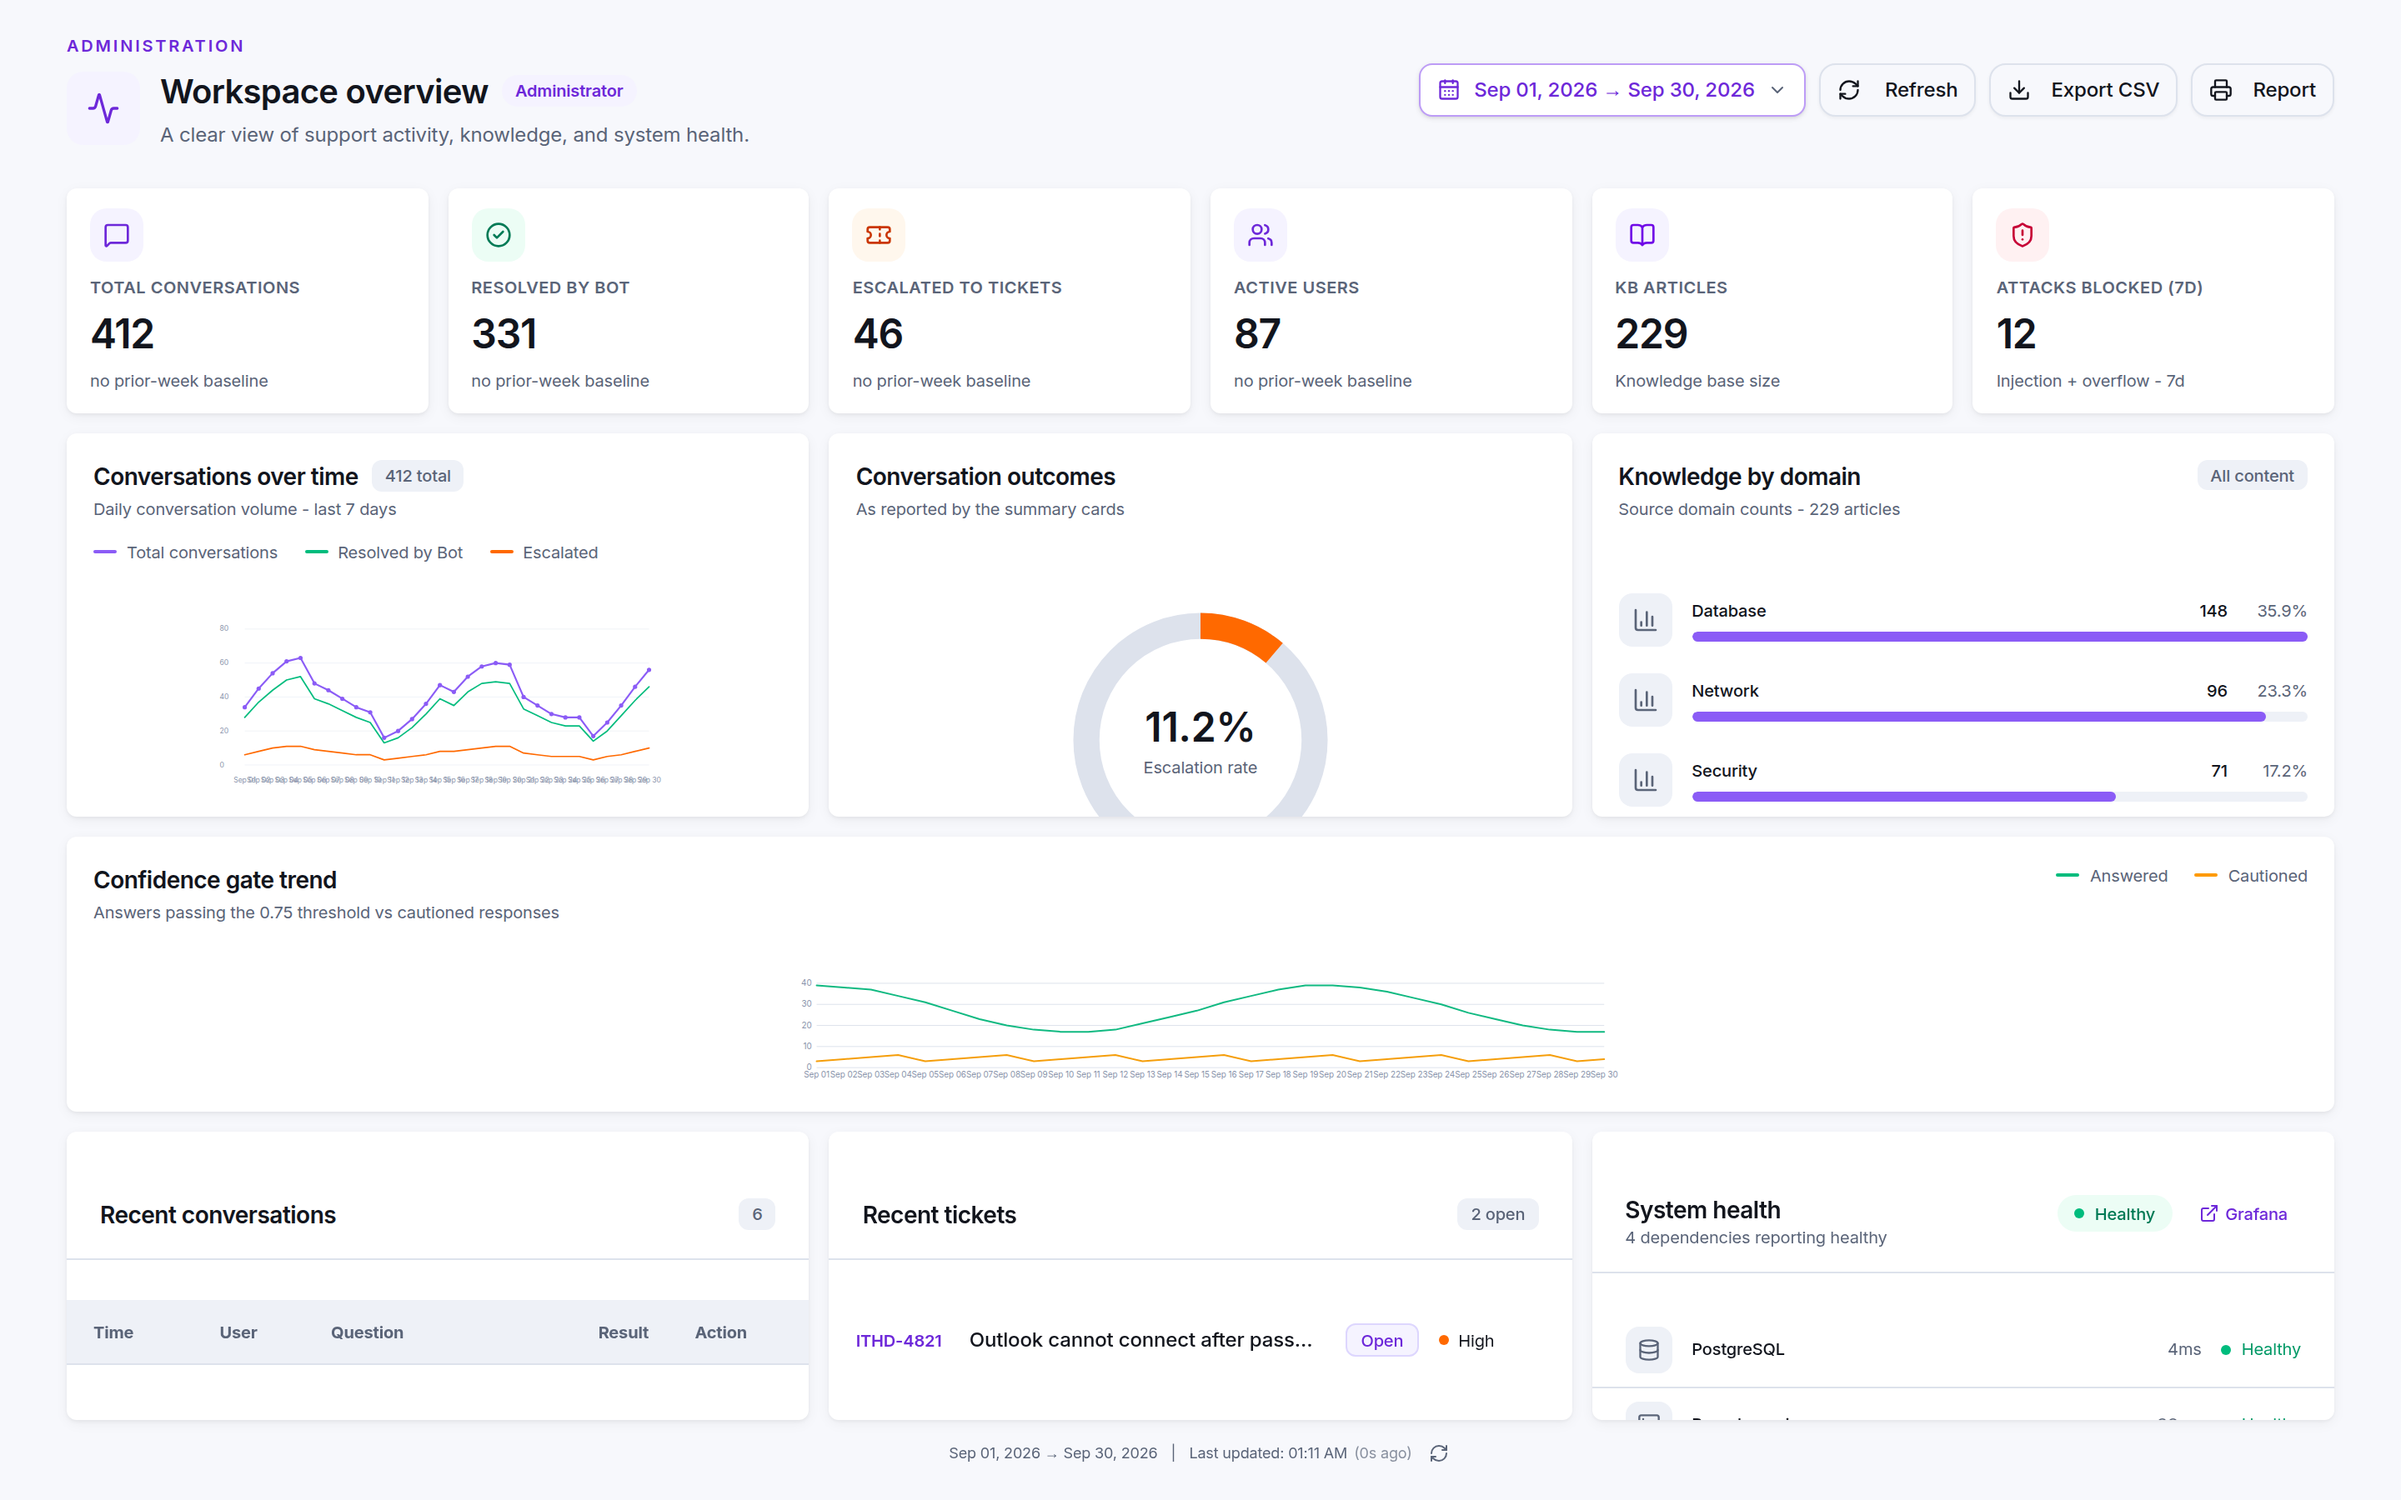
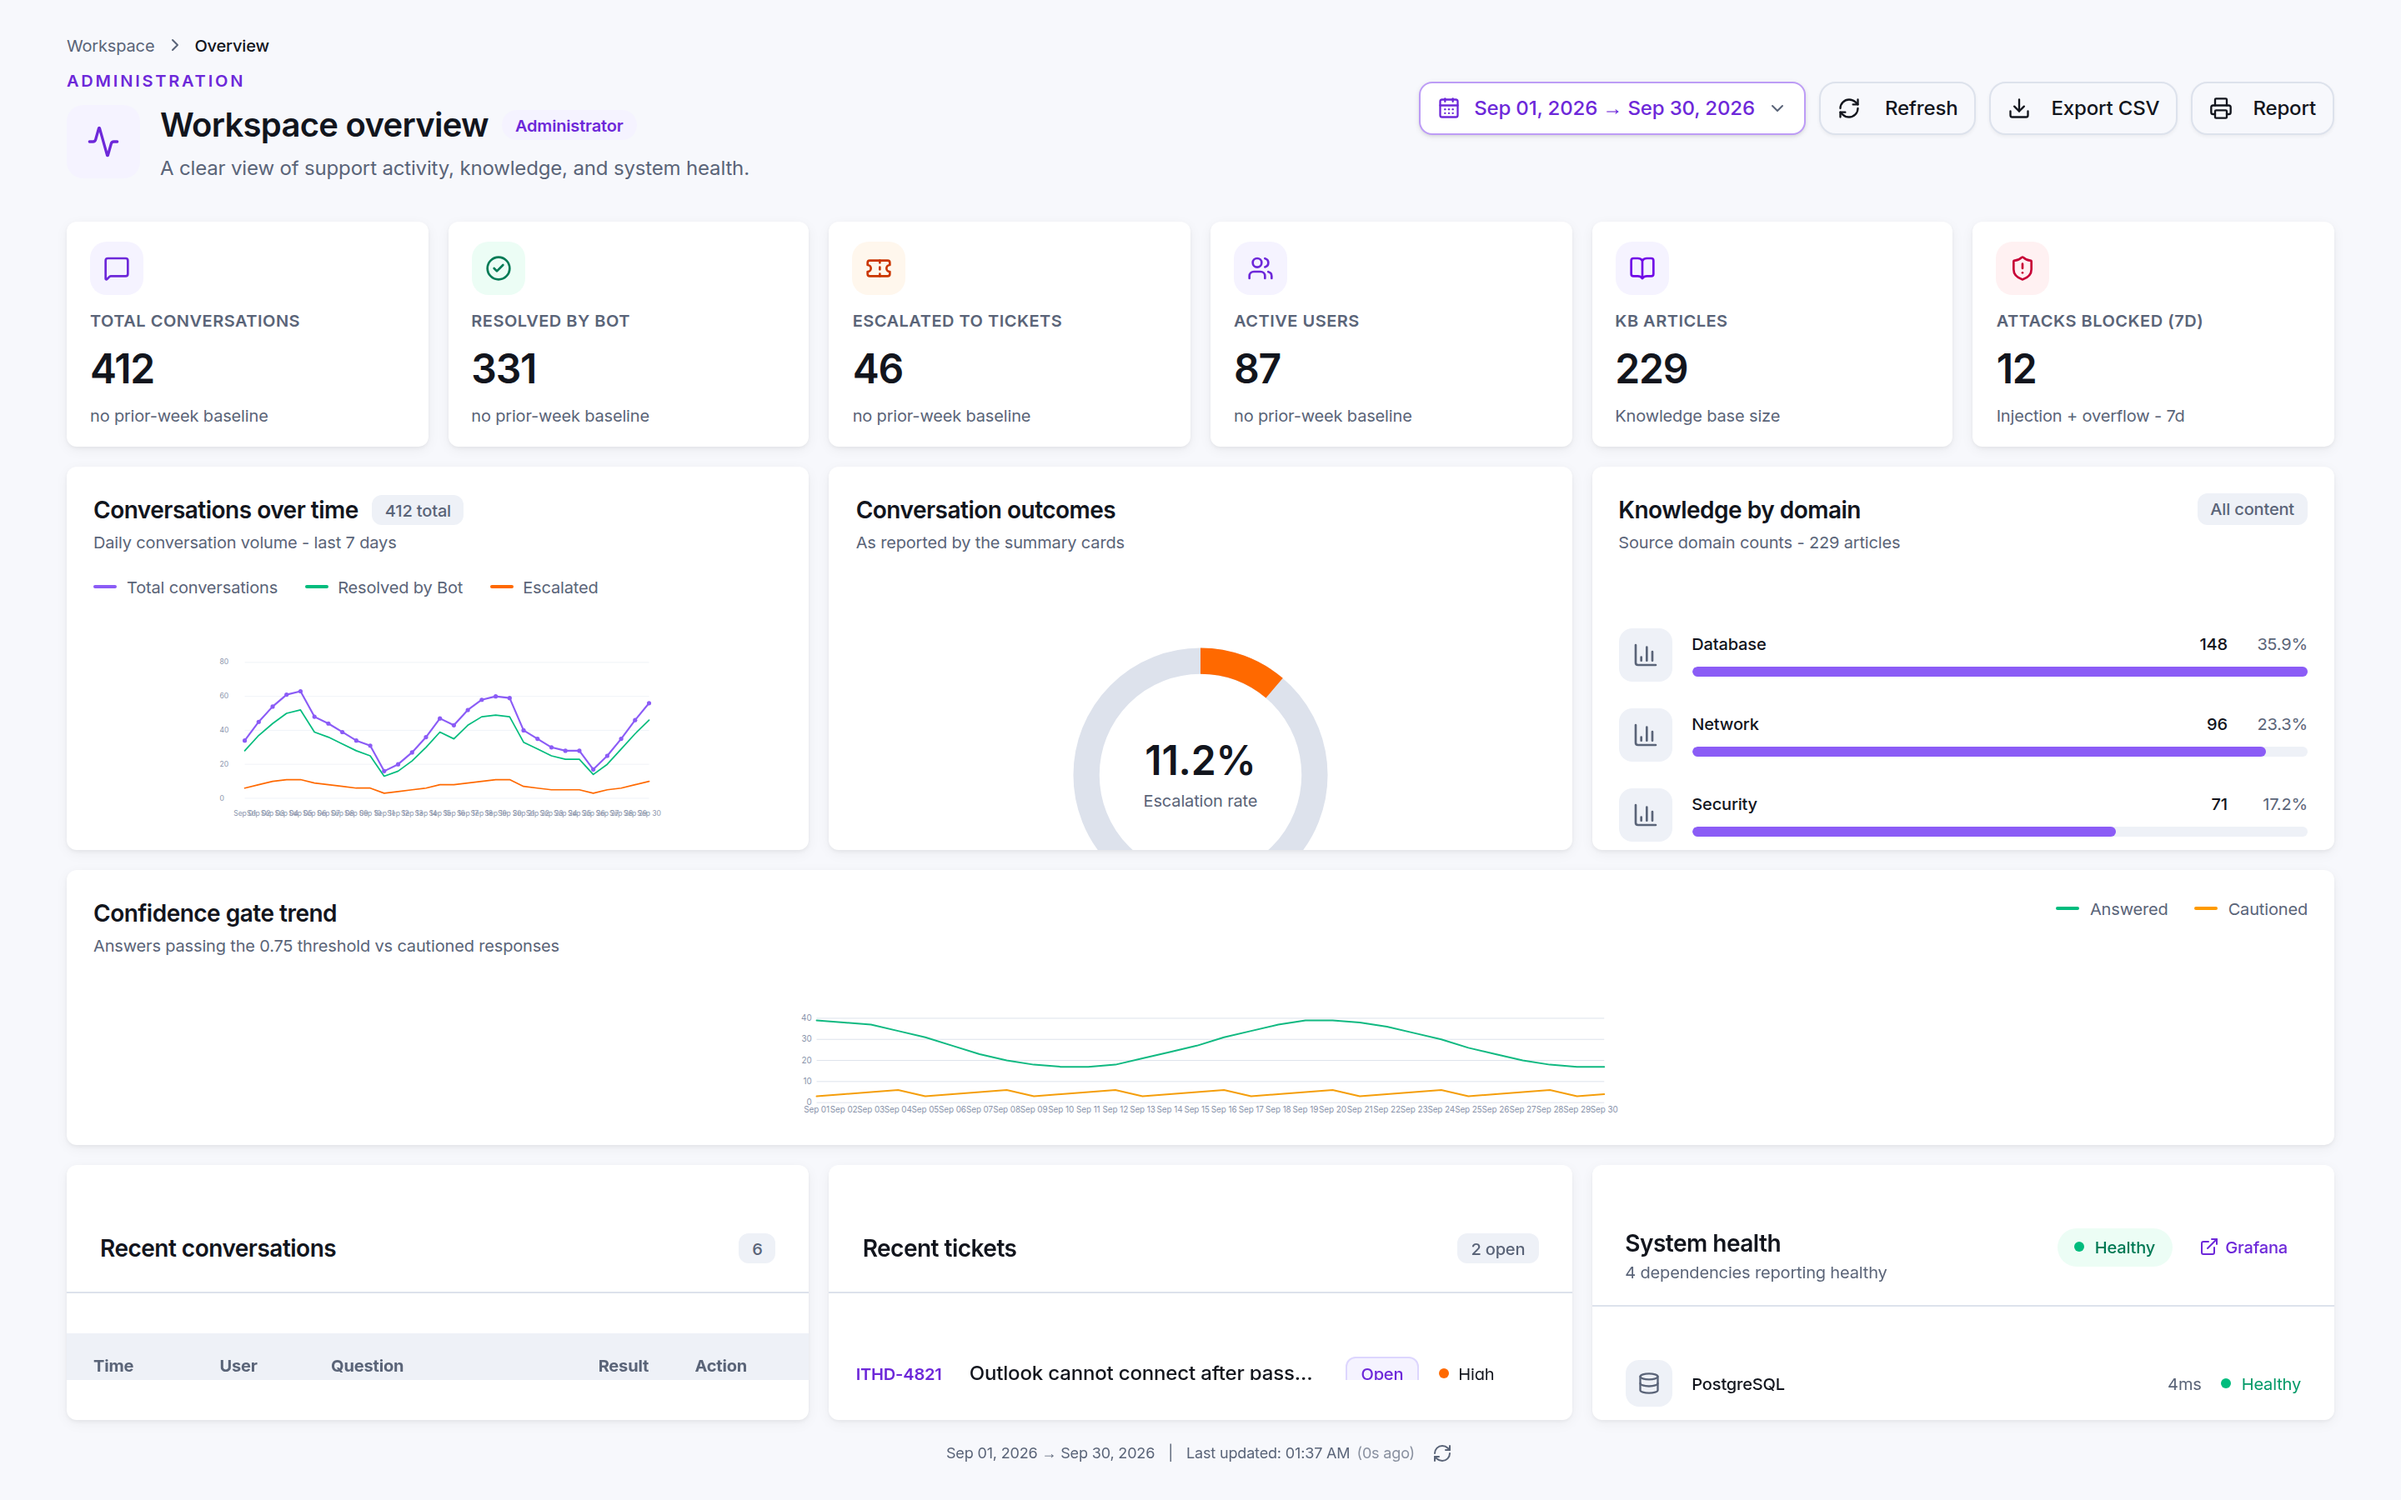
feat(shell): drop the shell top bar and lead every page with an inline header like chat

diff --git a/desktop/src/components/ui/page.tsx b/desktop/src/components/ui/page.tsx
@@ -15,7 +15,7 @@
  *   header height 72px · content padding p-5 lg:p-8 · max width 1400px
  *   card radius 12px · titles: page=h1(text-xl) section=text-sm
  */
-import { AlertTriangle, RefreshCw } from "lucide-react";
+import { AlertTriangle, ChevronRight, RefreshCw } from "lucide-react";
 import type { ReactNode } from "react";
 
 export function PageShell({ children, fill = false }: { children: ReactNode; fill?: boolean }) {
@@ -55,6 +55,7 @@ export function PageHeader({
   actions,
   icon,
   eyebrow,
+  breadcrumbs,
 }: {
   title: string;
   badge?: string;
@@ -64,9 +65,9 @@ export function PageHeader({
   /**
    * B-5 — breadcrumb trail, e.g. ["Workspace", "Tickets", "ITHD-22"].
    *
-   * Kept in the props so every page keeps type-checking (the dashboard still passes it),
-   * but NO LONGER rendered here: the trail moved to the shell-level <TopBar>, so it is
-   * drawn once, above the scroll area, on every non-chat page.
+   * Rendered inline above the title (v1.3.0), the same shape the chat column uses, after
+   * the shell-level top bar was removed: every page now carries its own trail, so the
+   * header block scrolls with the content exactly like the chat page's header does.
    */
   breadcrumbs?: string[];
   /** Optional uppercase kicker above the title, e.g. "ADMINISTRATION". */
@@ -75,6 +76,16 @@ export function PageHeader({
   return (
     <header className="mb-6 flex flex-col gap-4 sm:flex-row sm:items-center sm:justify-between">
       <div className="min-w-0">
+        {breadcrumbs && breadcrumbs.length > 0 && (
+          <nav aria-label="Breadcrumb" className="mb-1.5 flex flex-wrap items-center gap-1.5 text-2xs text-muted-foreground">
+            {breadcrumbs.map((crumb, i) => (
+              <span key={`${crumb}-${i}`} className="flex items-center gap-1.5">
+                {i > 0 && <ChevronRight className="size-3 shrink-0" aria-hidden="true" />}
+                <span className={i === breadcrumbs.length - 1 ? "font-medium text-foreground" : ""}>{crumb}</span>
+              </span>
+            ))}
+          </nav>
+        )}
         {eyebrow && (
           <div className="mb-1.5 text-2xs font-semibold tracking-[0.14em] text-[var(--accent-foreground)]">
             {eyebrow.toUpperCase()}

diff --git a/desktop/src/App.tsx b/desktop/src/App.tsx
@@ -8,7 +8,6 @@
 import { useEffect, useState } from "react";
 import { useToast, ToastHost } from "@/shared/useToast";
 import PageSidebar from "@/components/PageSidebar";
-import TopBar from "@/components/TopBar";
 import CommandPalette from "@/components/CommandPalette";
 import { NeedHelpCard } from "@/components/NeedHelpCard";
 import { FloatingChatProvider, FloatingChatPopup } from "@/components/FloatingChat";
@@ -139,12 +138,14 @@ export default function App() {
         <PageSidebar active={active} onNavigate={setNav} userName={userName} role={role}
           displayRole={meDisplay} perms={perms} onLogout={onLogout}
           collapsed={collapsed} onToggleCollapsed={toggleCollapsed} />
-        {/* The content column is a flex stack so the shell-level top bar sits ABOVE the
-            scroll area rather than inside it: the bar never scrolls, and a page that fills
-            the height (e.g. the dashboard) gets the remaining space, not the full viewport.
-            The chat route keeps its own header, so it gets no top bar. */}
+        {/* The content column is a flex stack: the page scroll area fills it, so a page
+            that fills the height (e.g. the dashboard) gets the remaining space, not the
+            full viewport. There is no shell-level top bar any more — every page leads with
+            its own header block, exactly like the chat column. */}
         <div className="flex min-w-0 flex-1 flex-col">
-          {active !== "chat" && <TopBar navId={active} />}
+          {/* No shell-level top bar (v1.3.0): every workspace page now leads with its own
+              in-page header, the same shape the chat column uses — breadcrumb, title,
+              description and actions in one block that scrolls with the content. */}
           <div data-slot="page-scroll" className={active === "chat" ? "min-w-0 flex-1 overflow-hidden" : "min-w-0 flex-1 overflow-y-auto"}>
             <Suspense fallback={<PageFallback />}>{children}</Suspense>
           </div>
